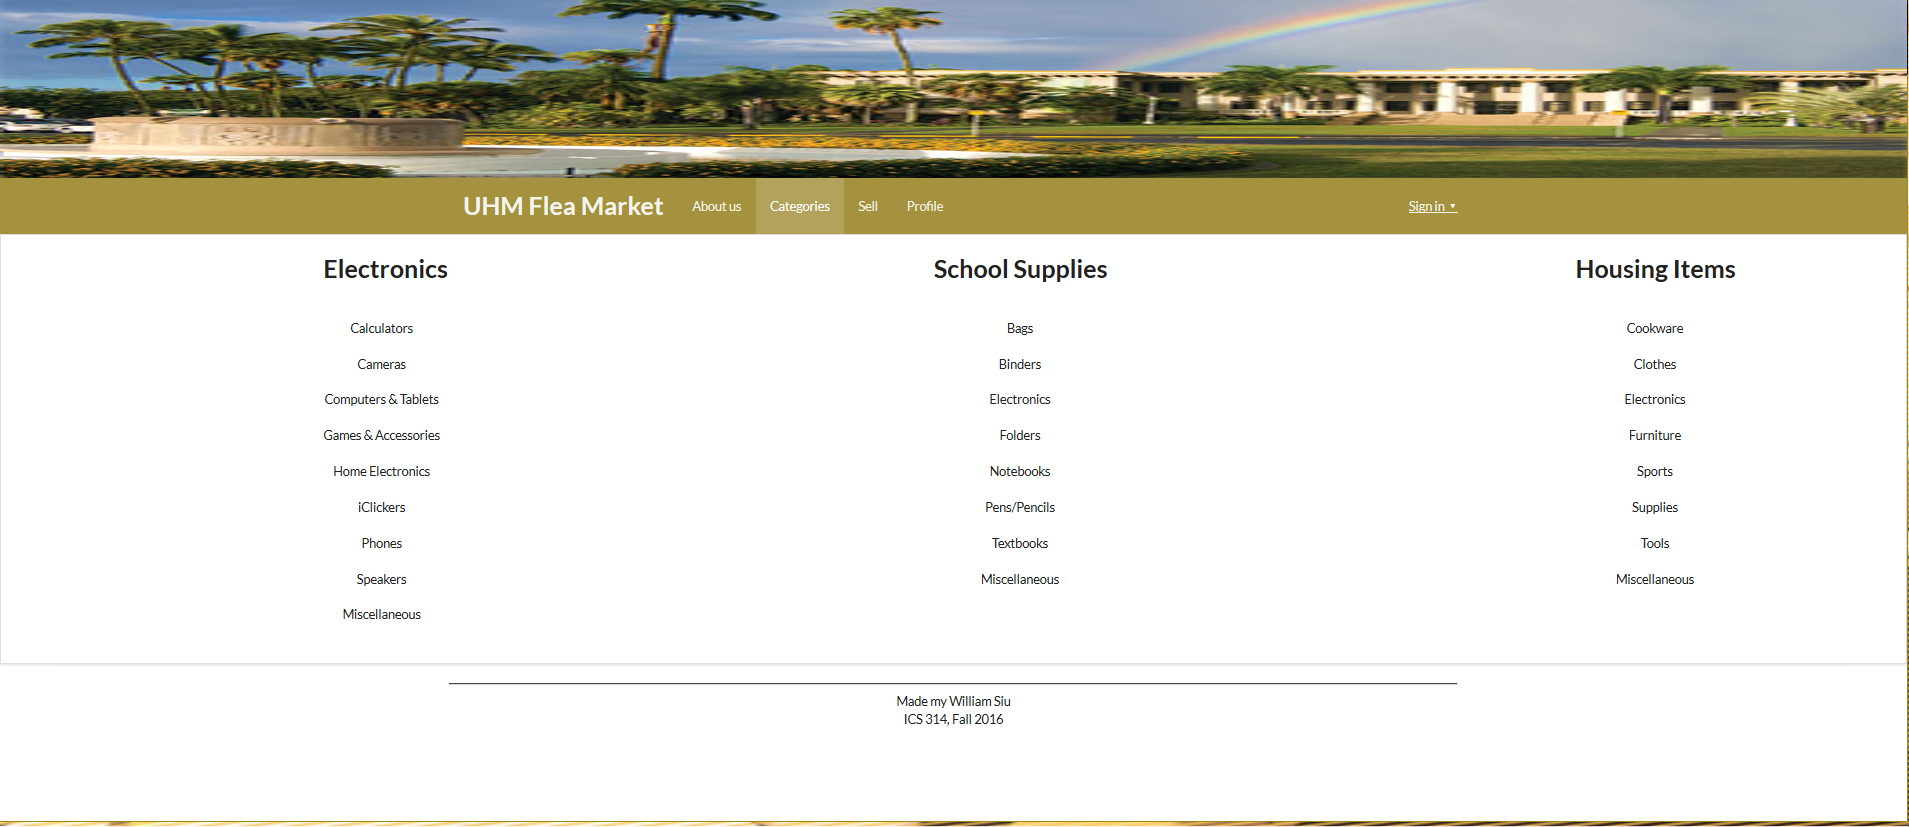
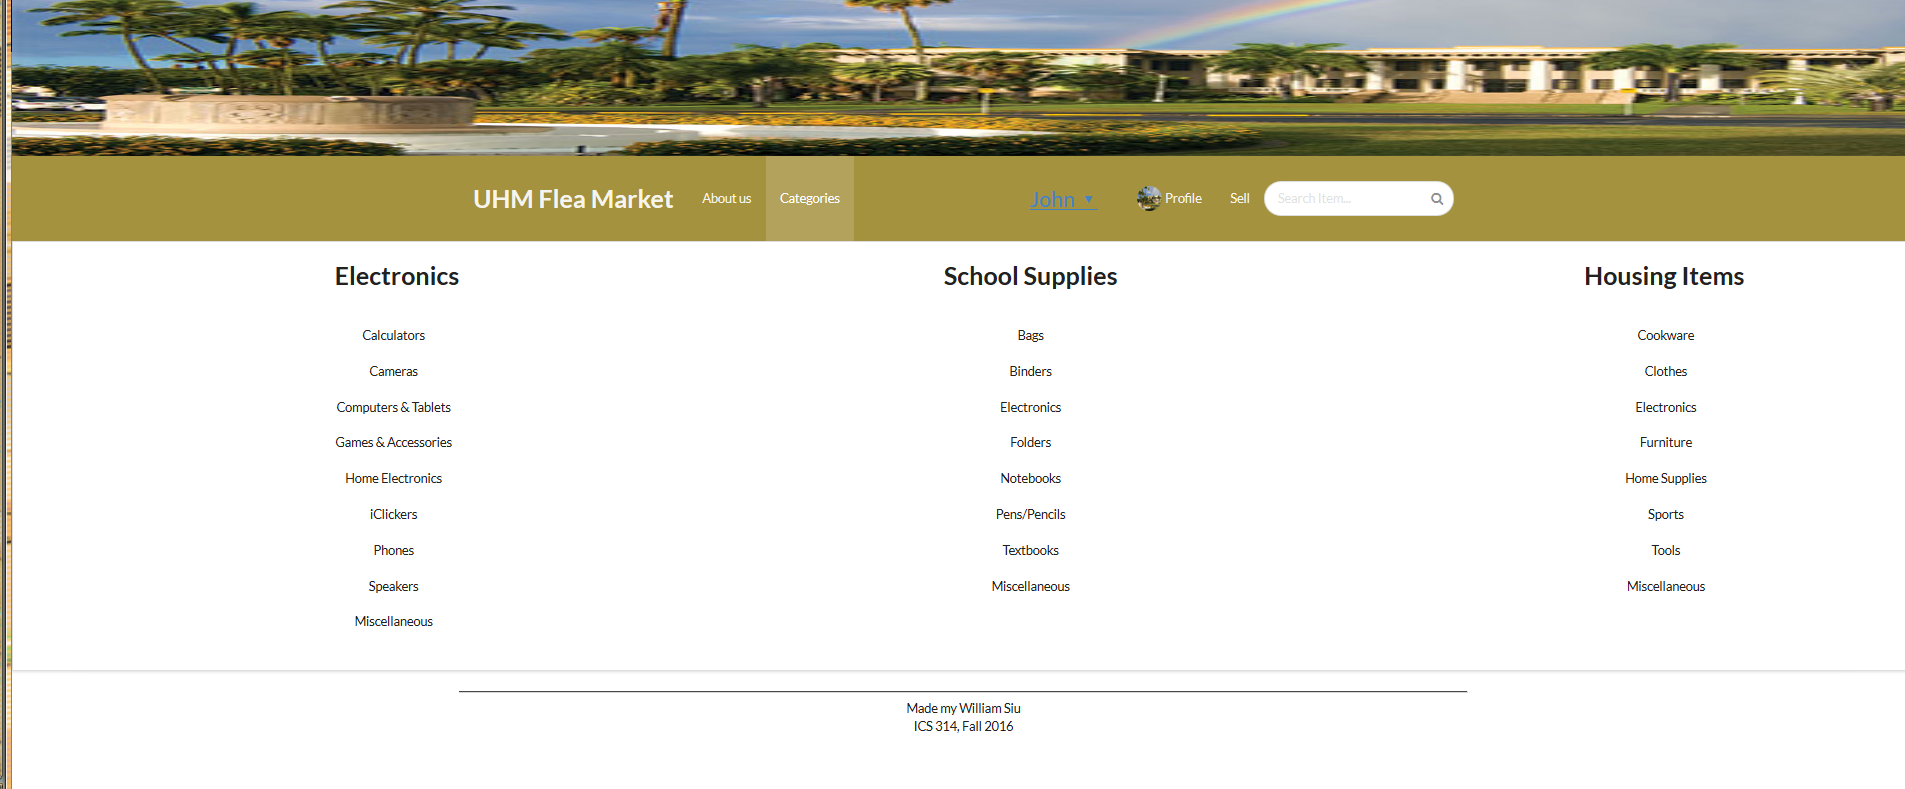
screenshot updates

diff --git a/README.md b/README.md
@@ -5,6 +5,9 @@ UHM_Market
 # Home Page
 <img class="ui huge image" src="/doc/home-page.png">
 
+# Home Page (signed in)
+<img class="ui huge image" src="/doc/home-page(signed in).png">
+
 #About Us
 <img class="ui huge image" src="/doc/about-us.png">
 
